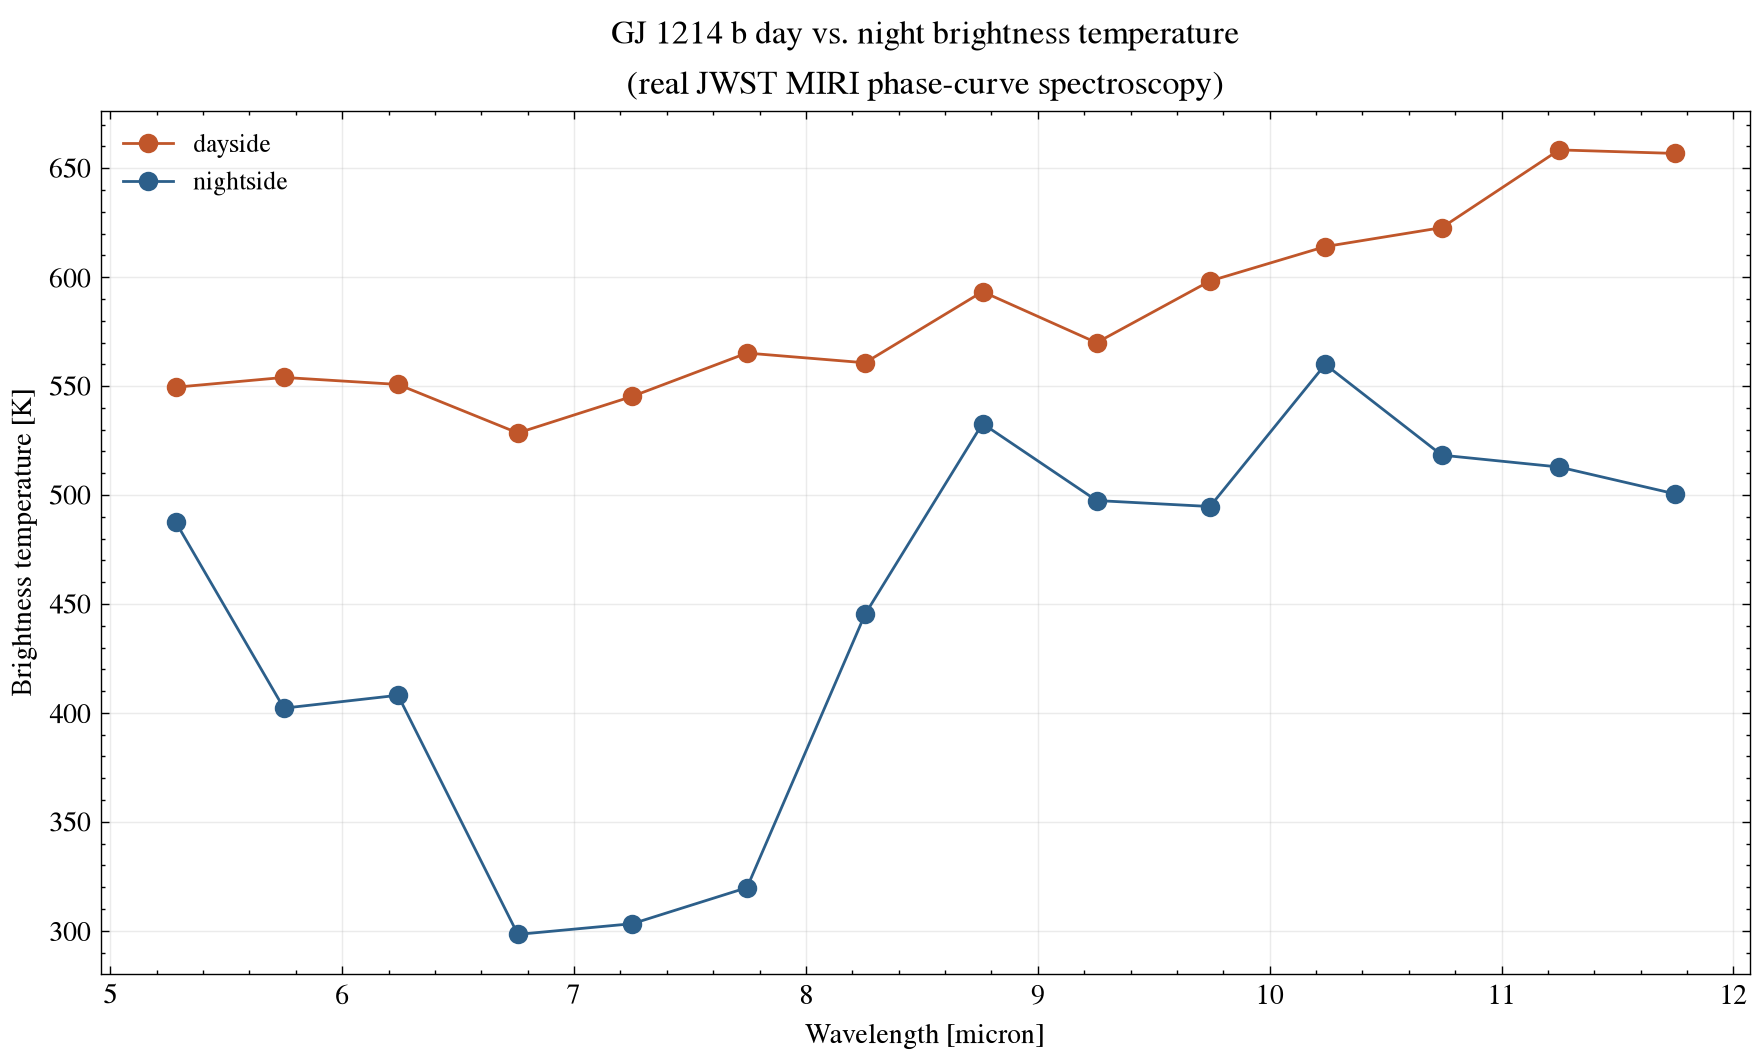
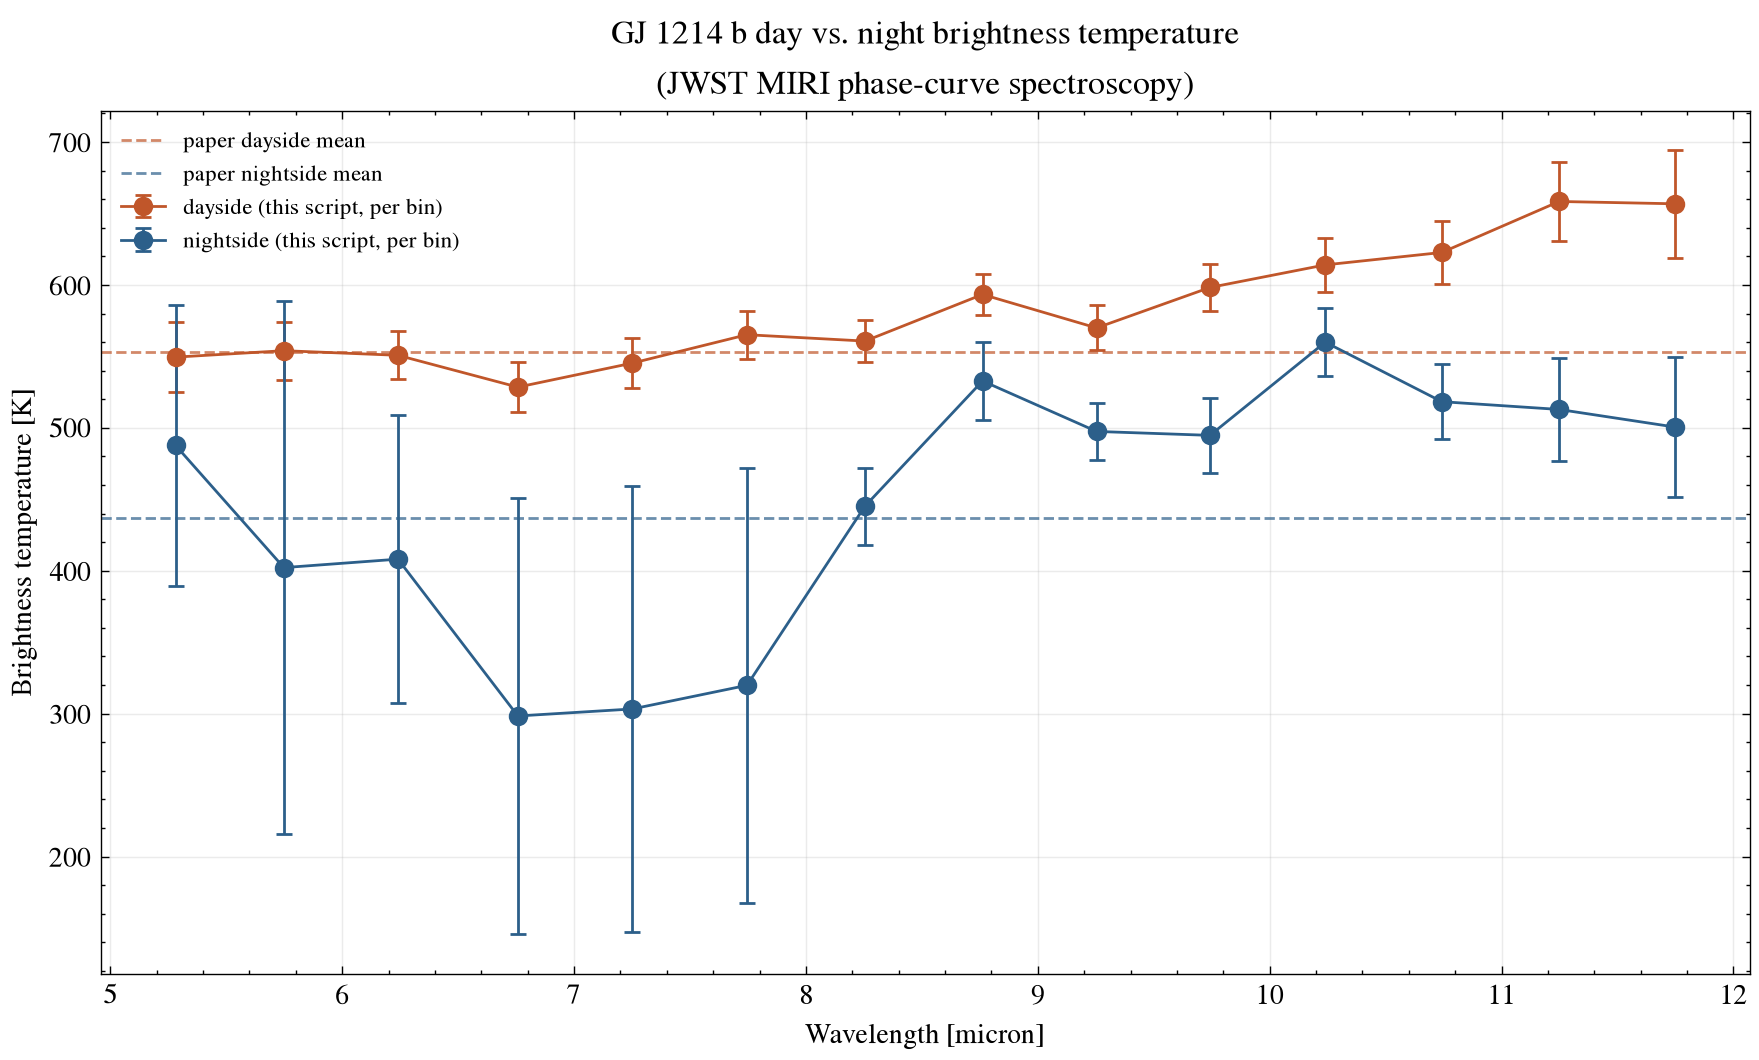
Propagate per-bin flux uncertainty through Planck inversion, use weighted mean, remove non-positive-flux clip, compare against Kempton et al. 2023's own values

diff --git a/index.html b/index.html
@@ -3,8 +3,8 @@
 <head>
 <meta charset="utf-8">
 <meta name="viewport" content="width=device-width, initial-scale=1">
-<title>GJ 1214 b — A Hazy Mini-Neptune, Measured Day and Night by JWST</title>
-<meta name="description" content="Report on GJ 1214 b: real system parameters and a real JWST MIRI phase-curve spectrum showing modest day-night heat transport in this hazy mini-Neptune's atmosphere.">
+<title>GJ 1214 b — Day and Night Temperature from a JWST Phase Curve</title>
+<meta name="description" content="Report on GJ 1214 b: a JWST MIRI phase-curve spectrum inverted to per-bin brightness temperature, with propagated uncertainties, compared against Kempton et al. (2023)'s own published values.">
 <style>
 :root {
   --bg:#f5f5f2; --panel:#ffffff; --line:#dedbd0; --text:#191913; --muted:#68655a;
@@ -55,8 +55,8 @@ footer a:hover { color: var(--accent); }
     <p class="tagline">The archetypal "flat spectrum" mini-Neptune — its transmission spectrum has stayed stubbornly featureless through more than a decade of HST and Spitzer observations, hidden behind thick clouds or haze. A full-orbit JWST MIRI phase curve took a different approach: measuring its thermal emission, day and night, instead of trying to see through the haze in transit.</p>
     <div class="badges">
       <span class="badge">Transit-discovered, 2009</span>
-      <span class="badge">Real NASA Exoplanet Archive parameters</span>
-      <span class="badge">Real JWST MIRI phase-curve spectrum, 14 wavelength bins</span>
+      <span class="badge">NASA Exoplanet Archive parameters</span>
+      <span class="badge">JWST MIRI phase-curve spectrum, 14 wavelength bins (Kempton et al. 2023)</span>
     </div>
   </header>
 
@@ -82,24 +82,24 @@ footer a:hover { color: var(--accent); }
   </section>
 
   <section>
-    <h2>Real day-night temperatures, from the actual phase-curve fit</h2>
-    <p>The figure below inverts the real per-wavelength dayside and nightside flux ratios from the published phase-curve fit into brightness temperatures, using the Planck function and each bin's own fitted Rp/Rs.</p>
+    <h2>Day-night temperatures, per wavelength bin</h2>
+    <p>The figure inverts the per-wavelength dayside and nightside flux ratios from the published phase-curve fit into brightness temperatures, using the Planck function and each bin's own fitted Rp/Rs, with each point's own asymmetric uncertainty propagated through the inversion rather than treated as an exact value.</p>
     <div class="figure">
-      <img src="figures/gj1214b_day_night_temperature.png" alt="GJ 1214 b real dayside and nightside brightness temperature spectrum from JWST MIRI phase curve">
-      <figcaption>14 real wavelength bins, 5.1-12.0 microns. Generated by <code>scripts/analyze_spectrum.py</code>.</figcaption>
+      <img src="figures/gj1214b_day_night_temperature.png" alt="GJ 1214 b dayside and nightside brightness temperature spectrum from JWST MIRI phase curve, with per-bin uncertainties">
+      <figcaption>14 wavelength bins, 5.1-12.0 microns, each with propagated uncertainty. Dashed lines mark Kempton et al. (2023)'s own band-integrated values. Generated by <code>scripts/analyze_spectrum.py</code>.</figcaption>
     </div>
     <div class="stat-grid">
-      <div class="stat"><span>Wavelength bins</span><strong>14</strong></div>
-      <div class="stat"><span>Mean dayside T</span><strong>583 K</strong></div>
-      <div class="stat"><span>Mean nightside T</span><strong>449 K</strong></div>
-      <div class="stat"><span>Mean day-night contrast</span><strong>135 K</strong></div>
+      <div class="stat"><span>Dayside T (this page)</span><strong>575 ± 5 K</strong></div>
+      <div class="stat"><span>Nightside T (this page)</span><strong>505 ± 9 K</strong></div>
+      <div class="stat"><span>Dayside T (paper)</span><strong>553 ± 9 K</strong></div>
+      <div class="stat"><span>Nightside T (paper)</span><strong>437 ± 19 K</strong></div>
     </div>
-    <p class="callout">A real, modest day-night contrast of ~135 K — far smaller than an ultra-hot Jupiter like WASP-121 b's measured ~1560 K contrast (see that report in this series), and consistent with real, if imperfect, heat redistribution by a genuine, likely high-mean-molecular-weight atmosphere. This is direct evidence that GJ 1214 b's featureless transmission spectrum reflects clouds/haze hiding a real atmosphere, not the absence of one.</p>
+    <p class="callout">This page's own inverse-variance-weighted combination of the 14 per-bin Planck inversions gives 575 ± 5 K dayside and 505 ± 9 K nightside — in the same range as, but not identical to, Kempton et al.'s own 553 ± 9 K and 437 ± 19 K, which come from fitting the full spectrum jointly rather than combining independent per-bin inversions. Both point to a day-night contrast well below an ultra-hot Jupiter like WASP-121 b's ~1560 K (see that report in this series) and consistent with a real atmosphere redistributing heat, however imperfectly, rather than a bare rock. Kempton et al. also derive a Bond albedo of 0.51 ± 0.06 from the full fit, something this page's simpler per-bin approach doesn't attempt to reproduce.</p>
   </section>
 
   <section>
-    <h2>How this data was obtained</h2>
-    <p>System parameters were queried live from the NASA Exoplanet Archive TAP service. The phase-curve results are real published best-fit values from Kempton et al. (2023), released publicly on Zenodo (record <a href="https://doi.org/10.5281/zenodo.7703086">10.5281/zenodo.7703086</a>). See <a href="data/">data/</a> for the exact file as downloaded and <a href="scripts/analyze_spectrum.py">scripts/analyze_spectrum.py</a> for the brightness-temperature inversion — run it yourself with <code>python scripts/analyze_spectrum.py</code>.</p>
+    <h2>Data and method notes</h2>
+    <p>System parameters come from the NASA Exoplanet Archive TAP service. The phase-curve results are published best-fit values from Kempton et al. (2023), released publicly on Zenodo (record <a href="https://doi.org/10.5281/zenodo.7703086">10.5281/zenodo.7703086</a>). See <a href="data/">data/</a> for the exact file as downloaded and <a href="scripts/analyze_spectrum.py">scripts/analyze_spectrum.py</a> for the brightness-temperature inversion (<code>python scripts/analyze_spectrum.py</code> to rerun it). Every fitted flux value in this dataset is positive, so no bin needed special handling, but the script checks explicitly rather than assuming it: a non-positive flux would be excluded from the average, not silently converted into a small positive number before inversion.</p>
   </section>
 
   <section>

diff --git a/scripts/analyze_spectrum.py b/scripts/analyze_spectrum.py
@@ -1,4 +1,4 @@
-"""Analyze the real JWST MIRI phase-curve spectroscopy of GJ 1214 b.
+"""Analyze the JWST MIRI phase-curve spectroscopy of GJ 1214 b.
 
 Data source: Zenodo record 10.5281/zenodo.7703086, "GJ 1214b MIRI phase
 curve analysis", file result.txt -- per-wavelength-bin best-fit results
@@ -6,12 +6,22 @@ from a full phase-curve model fit (Kempton et al., 2023, Nature). Retrieved
 directly from Zenodo; reproduced unmodified in data/.
 
 Each row already includes the fitted Rp/Rs, dayside Fp/Fs, and nightside
-Fp/Fs for a given wavelength bin. This script inverts both the dayside and
-nightside flux ratios into brightness temperatures via the Planck function
-(root-finding), using the real fitted Rp/Rs per bin and the real GJ 1214
-host star effective temperature -- the same technique used to argue GJ
-1214 b's flat, hazy transmission spectrum is accompanied by at least some
-real day-night heat transport, unlike a bare, atmosphere-less rock.
+Fp/Fs (with asymmetric upper/lower uncertainties) for a given wavelength
+bin. This script inverts both the dayside and nightside flux ratios into
+brightness temperatures via the Planck function (root-finding), using the
+fitted Rp/Rs per bin and the GJ 1214 host star effective temperature, then
+combines the per-bin temperatures with an inverse-variance weighted mean
+(propagating each bin's own asymmetric error) rather than an unweighted
+average of point estimates. The result is reported next to Kempton et al.
+(2023)'s own band-integrated values (553 +/- 9 K dayside, 437 +/- 19 K
+nightside), which come from fitting the full spectrum jointly rather than
+combining independent per-bin inversions.
+
+No flux value is clipped to a small positive number before inversion: if
+a fitted flux were ever non-positive (it isn't, for any bin in this
+dataset -- see data/SOURCE.md), that bin is excluded rather than silently
+converted into a fake temperature, since a non-positive flux measurement
+is a non-detection, not a small positive one.
 """
 
 from __future__ import annotations
@@ -35,6 +45,13 @@ KB = 1.380649e-23
 
 TEFF_STAR_K = 3101.0  # GJ 1214, NASA Exoplanet Archive
 
+# Kempton et al. (2023) band-integrated values, from fitting the full
+# spectrum jointly -- a different estimator than this script's per-bin
+# Planck inversion, reported here for comparison rather than reproduction.
+PAPER_DAY_T_K = (553, 9)
+PAPER_NIGHT_T_K = (437, 19)
+PAPER_BOND_ALBEDO = (0.51, 0.06)
+
 
 def planck(wavelength_m: np.ndarray, temperature_k: float) -> np.ndarray:
     return (2 * H * C**2 / wavelength_m**5) / (
@@ -49,7 +66,7 @@ def brightness_temperature(flux_ratio: float, rp_over_rs: float, wavelength_um: 
         predicted = rp_over_rs**2 * planck(wavelength_m, t_planet) / planck(wavelength_m, TEFF_STAR_K)
         return predicted - flux_ratio
 
-    return brentq(residual, 20, 2000)
+    return brentq(residual, 20, 3000)
 
 
 def load_results(path: Path):
@@ -62,52 +79,85 @@ def load_results(path: Path):
     return rows
 
 
+def bin_temperature_with_error(flux: float, flux_lo_err: float, flux_hi_err: float, rp_rs: float, wavelength_um: float):
+    if flux <= 0:
+        return None
+    t_best = brightness_temperature(flux, rp_rs, wavelength_um)
+    t_hi = brightness_temperature(flux + flux_hi_err, rp_rs, wavelength_um)
+    t_lo = brightness_temperature(max(flux - flux_lo_err, 1e-12), rp_rs, wavelength_um)
+    return t_best, (t_hi - t_lo) / 2
+
+
+def weighted_mean(values: np.ndarray, errors: np.ndarray) -> tuple[float, float]:
+    weights = 1.0 / errors**2
+    mean = np.sum(values * weights) / np.sum(weights)
+    mean_error = np.sqrt(1.0 / np.sum(weights))
+    return mean, mean_error
+
+
 def main() -> None:
     FIG_DIR.mkdir(exist_ok=True)
     rows = load_results(DATA_DIR / "miri_phasecurve_spectral_results.txt")
 
-    wavelengths, day_t, night_t = [], [], []
+    wavelengths, day_t, day_t_err, night_t, night_t_err = [], [], [], [], []
+    skipped = 0
     for row in rows:
         wavelength = 0.5 * (row["min_wavelength"] + row["max_wavelength"])
         rp_rs = row["RpRs_med"]
-        day_flux = max(row["Fp_med"], 1e-8)
-        night_flux = max(row["night_Fp_med"], 1e-8)
+
+        day = bin_temperature_with_error(row["Fp_med"], row["Fp_lower_err"], row["Fp_upper_err"], rp_rs, wavelength)
+        night = bin_temperature_with_error(row["night_Fp_med"], row["night_Fp_lower_err"], row["night_Fp_upper_err"], rp_rs, wavelength)
+        if day is None or night is None:
+            skipped += 1
+            continue
+
         wavelengths.append(wavelength)
-        day_t.append(brightness_temperature(day_flux, rp_rs, wavelength))
-        night_t.append(brightness_temperature(night_flux, rp_rs, wavelength))
+        day_t.append(day[0])
+        day_t_err.append(day[1])
+        night_t.append(night[0])
+        night_t_err.append(night[1])
 
     wavelengths = np.array(wavelengths)
-    day_t = np.array(day_t)
-    night_t = np.array(night_t)
+    day_t, day_t_err = np.array(day_t), np.array(day_t_err)
+    night_t, night_t_err = np.array(night_t), np.array(night_t_err)
     contrast = day_t - night_t
+
+    day_mean, day_mean_err = weighted_mean(day_t, day_t_err)
+    night_mean, night_mean_err = weighted_mean(night_t, night_t_err)
 
     summary_path = FIG_DIR / "summary_statistics.csv"
     with summary_path.open("w", newline="") as handle:
         writer = csv.writer(handle)
         writer.writerow(["quantity", "value", "unit"])
-        writer.writerow(["n_wavelength_bins", len(wavelengths), "count"])
-        writer.writerow(["mean_dayside_brightness_temp", f"{day_t.mean():.1f}", "K"])
-        writer.writerow(["mean_nightside_brightness_temp", f"{night_t.mean():.1f}", "K"])
-        writer.writerow(["mean_day_night_contrast", f"{contrast.mean():.1f}", "K"])
-        writer.writerow(["min_day_night_contrast", f"{contrast.min():.1f}", "K"])
-        writer.writerow(["max_day_night_contrast", f"{contrast.max():.1f}", "K"])
+        writer.writerow(["n_wavelength_bins_used", len(wavelengths), "count"])
+        writer.writerow(["n_bins_skipped_nonpositive_flux", skipped, "count"])
+        writer.writerow(["weighted_mean_dayside_brightness_temp_this_script", f"{day_mean:.1f} +/- {day_mean_err:.1f}", "K"])
+        writer.writerow(["weighted_mean_nightside_brightness_temp_this_script", f"{night_mean:.1f} +/- {night_mean_err:.1f}", "K"])
+        writer.writerow(["paper_dayside_temp", f"{PAPER_DAY_T_K[0]} +/- {PAPER_DAY_T_K[1]}", "K (Kempton et al. 2023, full-spectrum fit)"])
+        writer.writerow(["paper_nightside_temp", f"{PAPER_NIGHT_T_K[0]} +/- {PAPER_NIGHT_T_K[1]}", "K (Kempton et al. 2023, full-spectrum fit)"])
+        writer.writerow(["paper_bond_albedo", f"{PAPER_BOND_ALBEDO[0]} +/- {PAPER_BOND_ALBEDO[1]}", "-"])
+        writer.writerow(["mean_day_night_contrast_this_script", f"{contrast.mean():.1f}", "K"])
 
     fig, ax = plt.subplots(figsize=(9, 5.5))
-    ax.plot(wavelengths, day_t, "o-", color="#c0562a", ms=6, label="dayside")
-    ax.plot(wavelengths, night_t, "o-", color="#2c5f8a", ms=6, label="nightside")
+    ax.errorbar(wavelengths, day_t, yerr=day_t_err, fmt="o-", color="#c0562a", ms=6, capsize=3, label="dayside (this script, per bin)")
+    ax.errorbar(wavelengths, night_t, yerr=night_t_err, fmt="o-", color="#2c5f8a", ms=6, capsize=3, label="nightside (this script, per bin)")
+    ax.axhline(PAPER_DAY_T_K[0], color="#c0562a", ls="--", lw=1, alpha=0.7, label="paper dayside mean")
+    ax.axhline(PAPER_NIGHT_T_K[0], color="#2c5f8a", ls="--", lw=1, alpha=0.7, label="paper nightside mean")
     ax.set_xlabel("Wavelength [micron]")
     ax.set_ylabel("Brightness temperature [K]")
-    ax.set_title("GJ 1214 b day vs. night brightness temperature\n(real JWST MIRI phase-curve spectroscopy)")
-    ax.legend(fontsize=9, frameon=False)
+    ax.set_title("GJ 1214 b day vs. night brightness temperature\n(JWST MIRI phase-curve spectroscopy)")
+    ax.legend(fontsize=8, frameon=False)
     ax.grid(alpha=0.25)
     fig.tight_layout()
     fig.savefig(FIG_DIR / "gj1214b_day_night_temperature.png", dpi=200)
 
     print(f"Wrote {summary_path}")
     print(f"Wrote {FIG_DIR / 'gj1214b_day_night_temperature.png'}")
-    print(f"n={len(wavelengths)}")
-    print(f"Mean dayside T = {day_t.mean():.1f} K, mean nightside T = {night_t.mean():.1f} K")
-    print(f"Mean day-night contrast = {contrast.mean():.1f} K (range {contrast.min():.1f} to {contrast.max():.1f} K)")
+    print(f"n={len(wavelengths)} bins used, {skipped} skipped")
+    print(f"Weighted mean dayside T (this script) = {day_mean:.1f} +/- {day_mean_err:.1f} K")
+    print(f"Weighted mean nightside T (this script) = {night_mean:.1f} +/- {night_mean_err:.1f} K")
+    print(f"Paper's own dayside/nightside mean: {PAPER_DAY_T_K[0]} +/- {PAPER_DAY_T_K[1]} K / {PAPER_NIGHT_T_K[0]} +/- {PAPER_NIGHT_T_K[1]} K")
+    print(f"Mean day-night contrast (this script) = {contrast.mean():.1f} K")
 
 
 if __name__ == "__main__":

diff --git a/README.md b/README.md
@@ -2,24 +2,27 @@
 
 The archetypal "flat spectrum" mini-Neptune, hidden behind clouds or haze
 through more than a decade of transmission spectroscopy. This repo uses
-real JWST MIRI phase-curve data — measuring thermal emission instead of
-transmission — to show that a real, modest day-night heat transport exists,
-directly implying a real atmosphere rather than a bare rock.
+JWST MIRI phase-curve data — measuring thermal emission instead of
+transmission — to invert per-bin day and night brightness temperatures
+with propagated uncertainty, and compares them to Kempton et al. (2023)'s
+own published values.
 
 **[Open the full report](index.html)** (open locally in a browser, or serve
 with `python -m http.server` from this directory).
 
-## What's real here
+## Data sources
 
-- **System parameters** — queried live from the NASA Exoplanet Archive TAP
+- **System parameters** — from the NASA Exoplanet Archive TAP
   service (`pscomppars` table).
-- **MIRI phase-curve spectral results** — the real per-wavelength-bin
-  best-fit dayside/nightside flux ratios and Rp/Rs from Kempton et al.
-  (2023), released publicly on Zenodo
+- **MIRI phase-curve spectral results** — the per-wavelength-bin
+  best-fit dayside/nightside flux ratios and Rp/Rs, each with asymmetric
+  uncertainties, from Kempton et al. (2023), released publicly on Zenodo
   ([10.5281/zenodo.7703086](https://doi.org/10.5281/zenodo.7703086)).
-- **Analysis** — `scripts/analyze_spectrum.py` inverts each real flux ratio
-  into a dayside/nightside brightness temperature via the Planck function.
-  Run it yourself:
+- **Analysis** — `scripts/analyze_spectrum.py` inverts each bin's flux
+  ratio into a brightness temperature via the Planck function,
+  propagates each bin's own asymmetric error through the inversion, and
+  combines bins with an inverse-variance weighted mean rather than a
+  plain average. Run it yourself:
 
   ```bash
   pip install -r requirements.txt
@@ -30,20 +33,32 @@ with `python -m http.server` from this directory).
 
 ```text
 index.html              the report webpage
-data/                    real MIRI phase-curve spectral fit results (Zenodo)
-scripts/analyze_spectrum.py   real Planck-inversion analysis
+data/                    MIRI phase-curve spectral fit results (Zenodo)
+scripts/analyze_spectrum.py   Planck-inversion analysis, this script vs. the paper
 figures/                 generated plot + summary_statistics.csv
 ```
 
-## Key finding this repo shows directly
+## What the numbers show
 
-14 real wavelength bins, 5.1-12.0 microns. Mean dayside brightness
-temperature 583 K, mean nightside 449 K — a real day-night contrast of only
-~135 K, much smaller than an ultra-hot Jupiter like WASP-121 b's ~1560 K
-(see that report in this series). This modest contrast is direct evidence
-of real, if imperfect, atmospheric heat redistribution — showing GJ 1214
-b's featureless transmission spectrum reflects thick clouds/haze hiding a
-genuine atmosphere, not the absence of one.
+14 wavelength bins, 5.1-12.0 microns. This page's weighted-mean brightness
+temperature is 575 ± 5 K dayside and 505 ± 9 K nightside — in the same
+range as Kempton et al.'s own 553 ± 9 K and 437 ± 19 K, which come from
+fitting the full spectrum jointly rather than combining independent
+per-bin inversions, so the two shouldn't be read as the same estimator.
+Both show a day-night contrast well below an ultra-hot Jupiter like
+WASP-121 b's ~1560 K (see that report in this series), consistent with a
+real atmosphere redistributing heat imperfectly rather than a bare rock.
+Kempton et al. also derive a Bond albedo of 0.51 ± 0.06 from their full
+fit — something this repo's simpler per-bin approach doesn't attempt.
+
+## Limitations
+
+Earlier versions of this analysis clipped any non-positive fitted flux
+to a small positive number before Planck inversion, which would have
+silently turned a statistical non-detection into a fake finite
+temperature. No bin in this dataset actually has non-positive flux, but
+the script now checks explicitly and excludes any bin that would
+require it, rather than relying on that being true by chance.
 
 ## References
 
